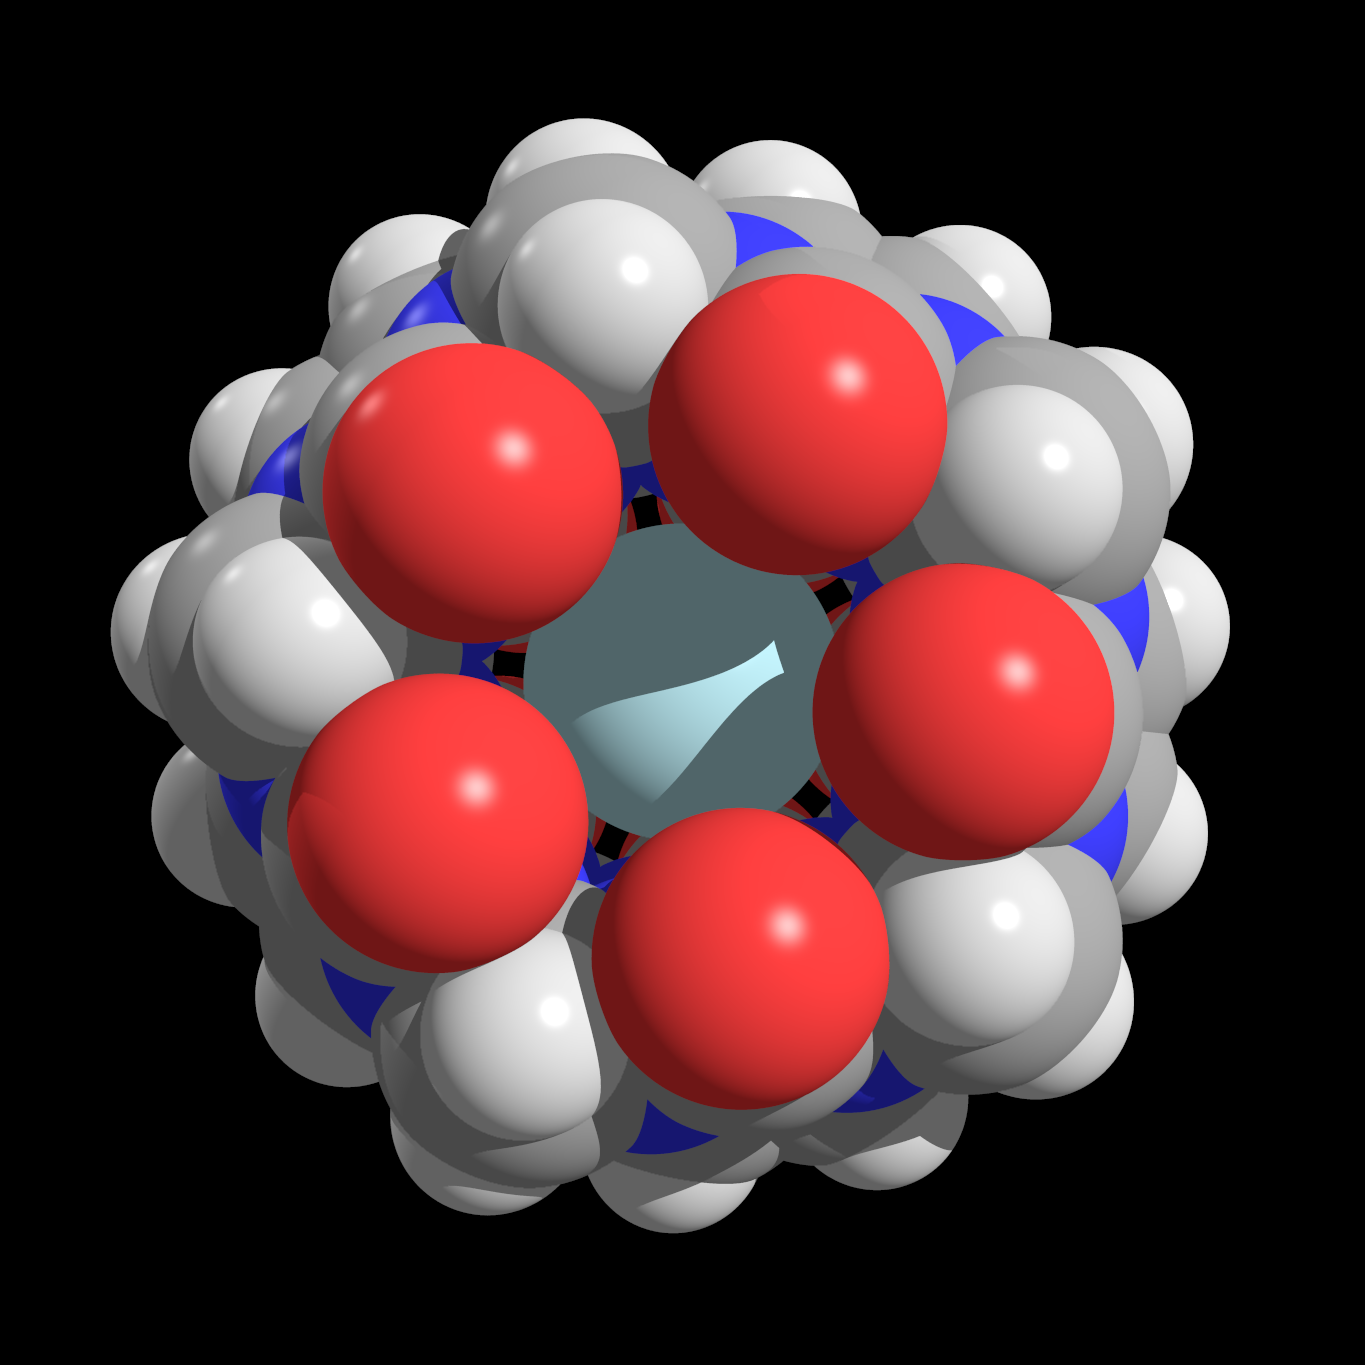
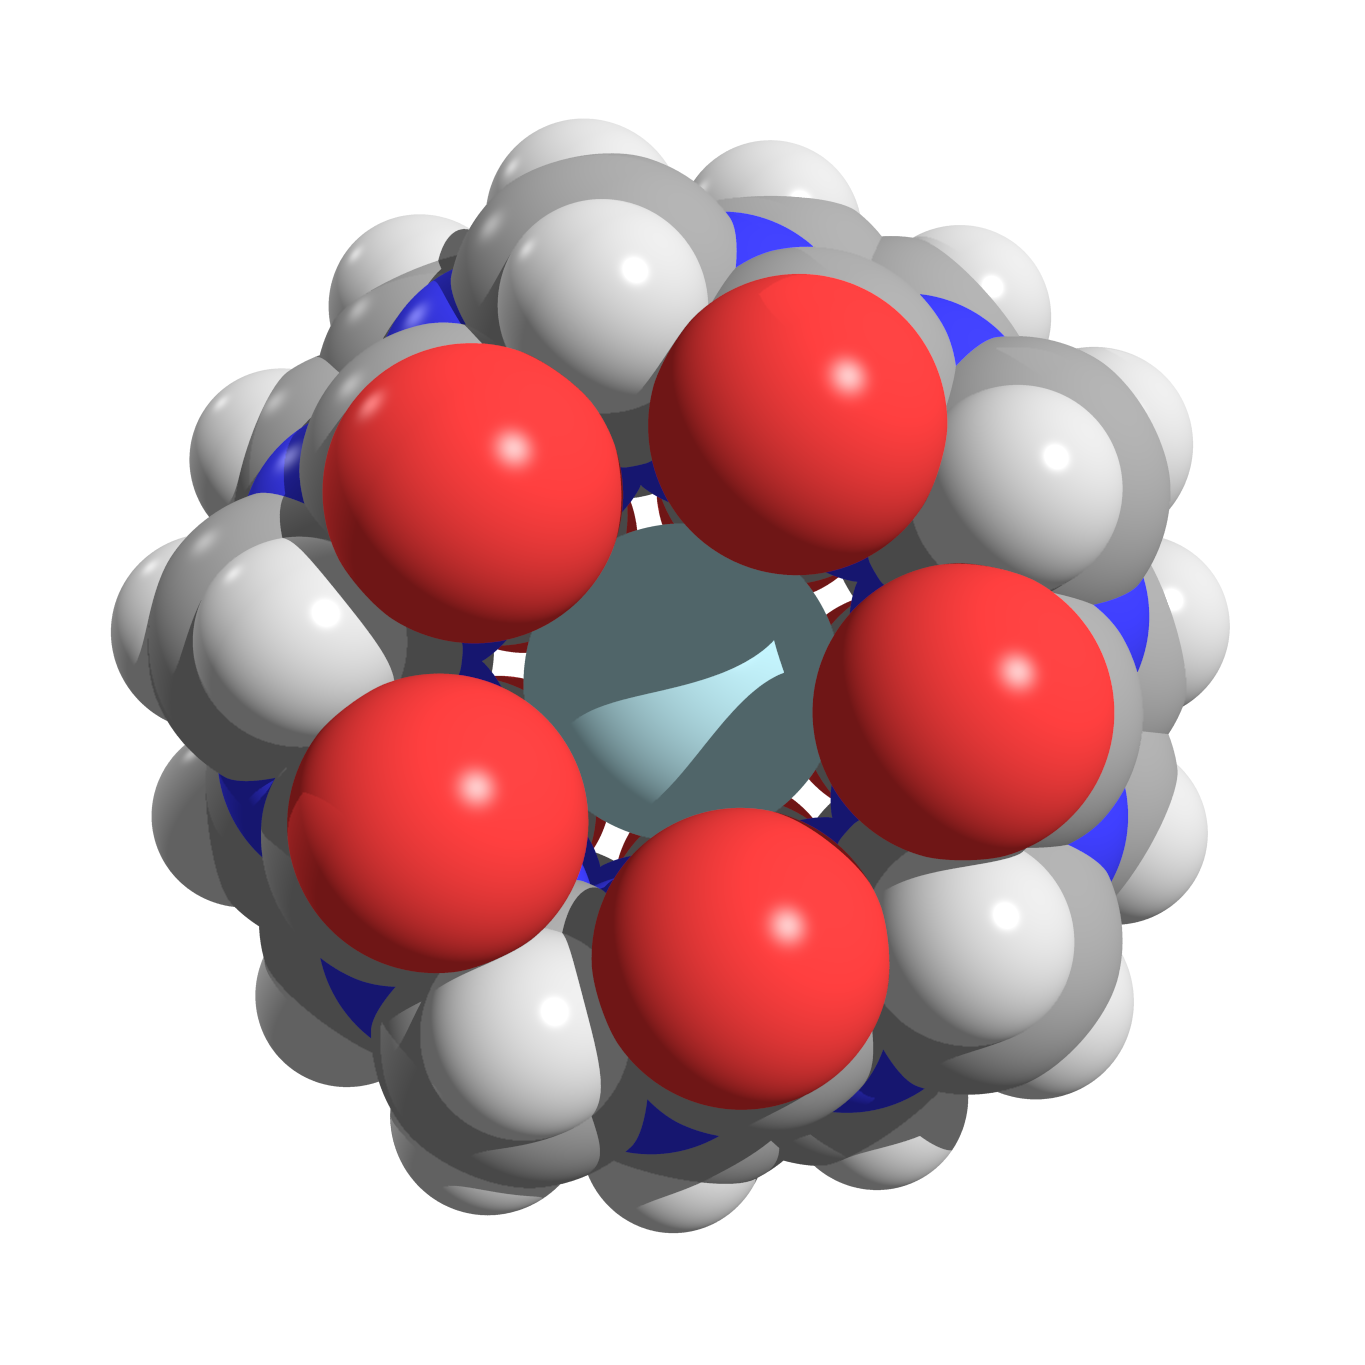
added Output_Alpha=True to povray.ini for transparent bg

diff --git a/_layouts/default.html b/_layouts/default.html
@@ -13,8 +13,8 @@
     <section class="page-header">
 
 		<figure/>
-			<img src="Ar@Q3_opt_DFT-D4_def2TZVP_C1_1.png" width="300px" alt="Ar@Q3"/> 
-			<figcaption><small>Equatorial electron density contours of Ar inside Q3</small></figcaption>
+			<img src="Ar@Q5_opt_DFT-D4_def2TZVP_C5h_1__opt_tight.png" width="300px" alt="Ar@Q3"/> 
+			<figcaption><small>Equatorial electron density contours of Ar inside Q3.</small></figcaption>
 		</figure> 
 		    
       <h1 class="project-name">{{ site.title | default: site.github.repository_name }}</h1>
